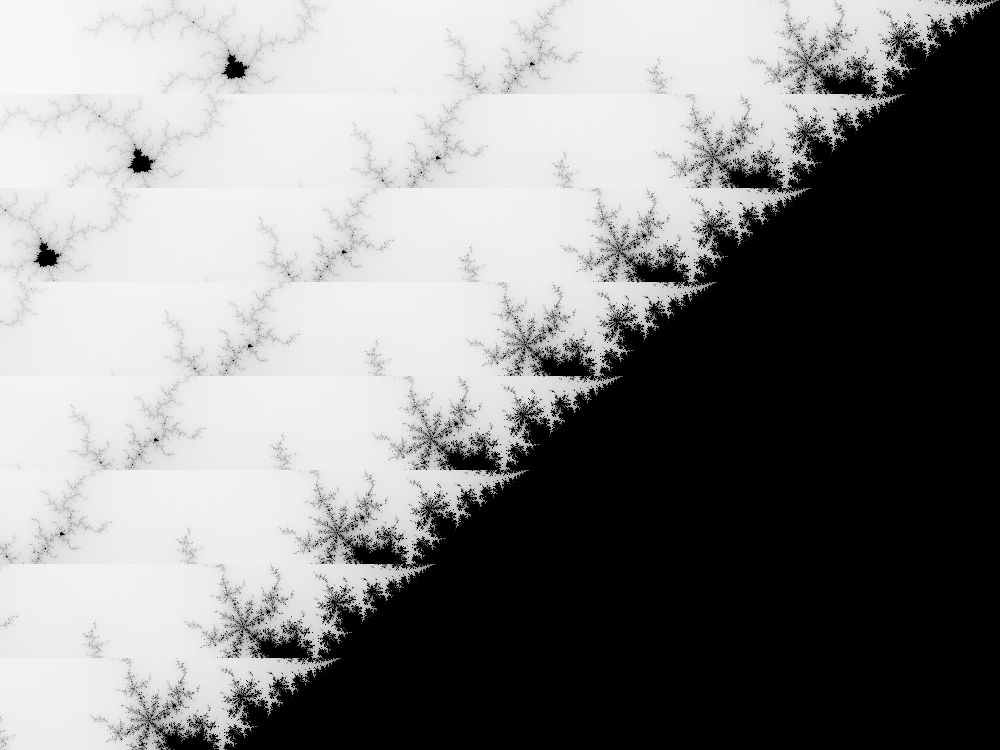
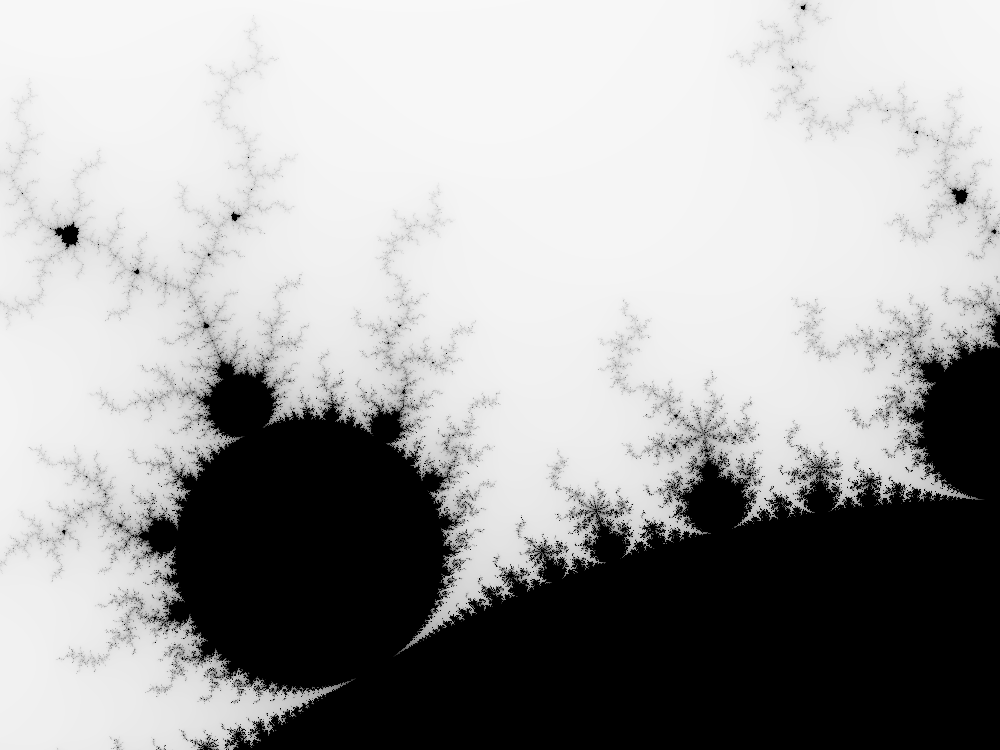
Update mantebrot functions

diff --git a/rust/algorithms/mandelbrot/src/main.rs b/rust/algorithms/mandelbrot/src/main.rs
@@ -25,13 +25,31 @@ fn main() {
 
     
     // Single thread rendering;
-    // let mut pixels = vec![0; bounds.0 * bounds.1];
-    // render(&mut pixels, bounds, upper_left, lower_right);
-    // write_image("no_thread.png", &pixels, bounds).expect("error writing PNG file");
-
+    let pixels = single_thread_render(bounds, upper_left, lower_right);
+    write_image("no_thread.png", &pixels, bounds).expect("error writing PNG file");
     
-    let mut pixels = vec![0; bounds.0 * bounds.1];
     // Multi thread rendering;
+    let pixels = multi_threads_render(bounds, upper_left, lower_right);
+    write_image(&args[1], &pixels, bounds).expect("error writing PNG file");
+}
+
+fn single_thread_render(
+    bounds: (usize, usize),
+    upper_left: Complex<f64>,
+    lower_right: Complex<f64>
+) -> Vec<u8> {
+    let mut pixels = vec![0; bounds.0 * bounds.1];
+    render(&mut pixels, bounds, upper_left, lower_right);
+
+    pixels
+}
+
+fn multi_threads_render(
+    bounds: (usize, usize),
+    upper_left: Complex<f64>,
+    lower_right: Complex<f64>
+) -> Vec<u8> {
+    let mut pixels = vec![0; bounds.0 * bounds.1];
     // Scope of slicing up `pixels` into horizontal bands.
     {
         let bands: Vec<(usize, &mut [u8])> = pixels.chunks_mut(bounds.0).enumerate().collect();
@@ -46,10 +64,10 @@ fn main() {
         });
     }
 
-    write_image(&args[1], &pixels, bounds).expect("error writing PNG file");
+    pixels
 }
 
-use std::str::FromStr;
+
 /// Parse the string `s` as a coordinate pair, like `"400x600"` or `"1.0,0.5"`.
 ///
 /// Specifically, `s` should have the form <left><sep><right>, where <sep> is
@@ -58,6 +76,8 @@ use std::str::FromStr;
 ///
 /// If `s` has the proper form, return `Some<(x, y)>`. If it doesn't parse
 /// correctly, return `None`.
+use std::str::FromStr;
+
 fn parse_pair<T: FromStr>(s: &str, separator: char) -> Option<(T, T)> {
     match s.find(separator) {
         None => None,
